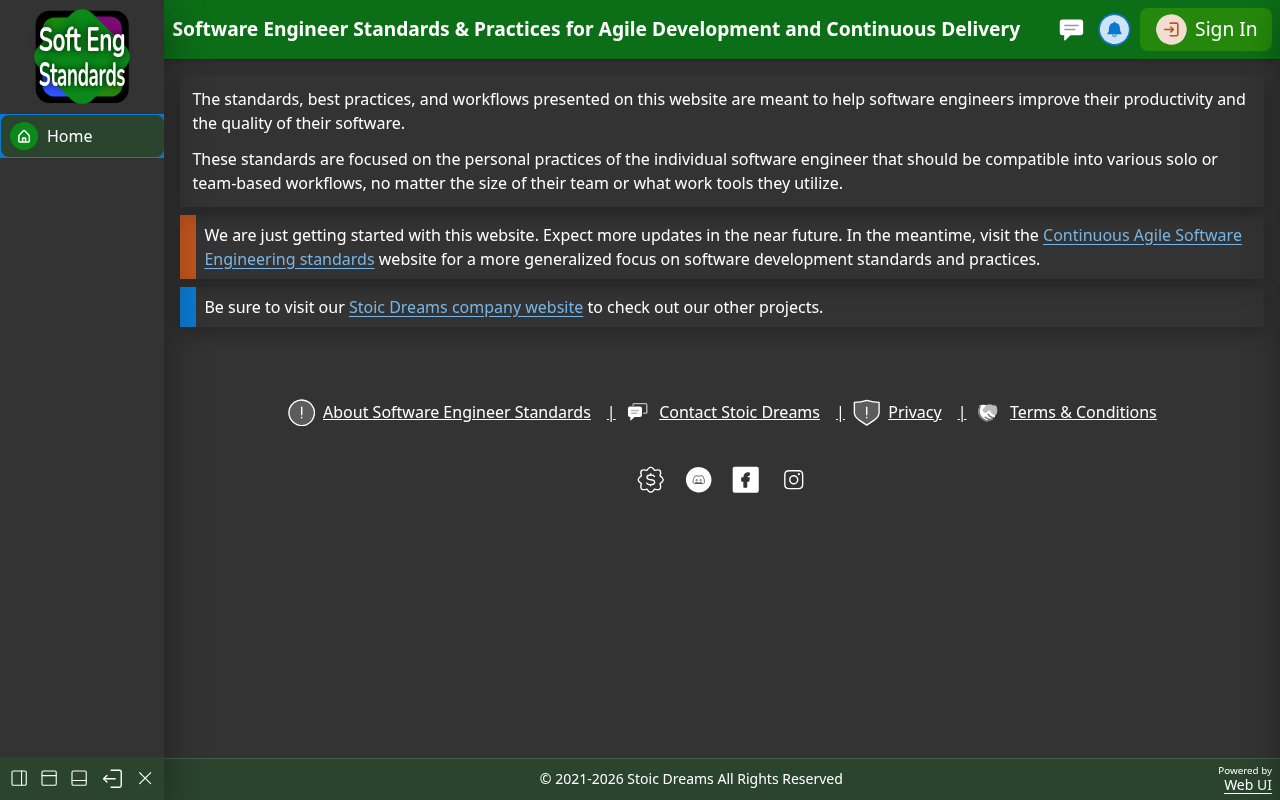
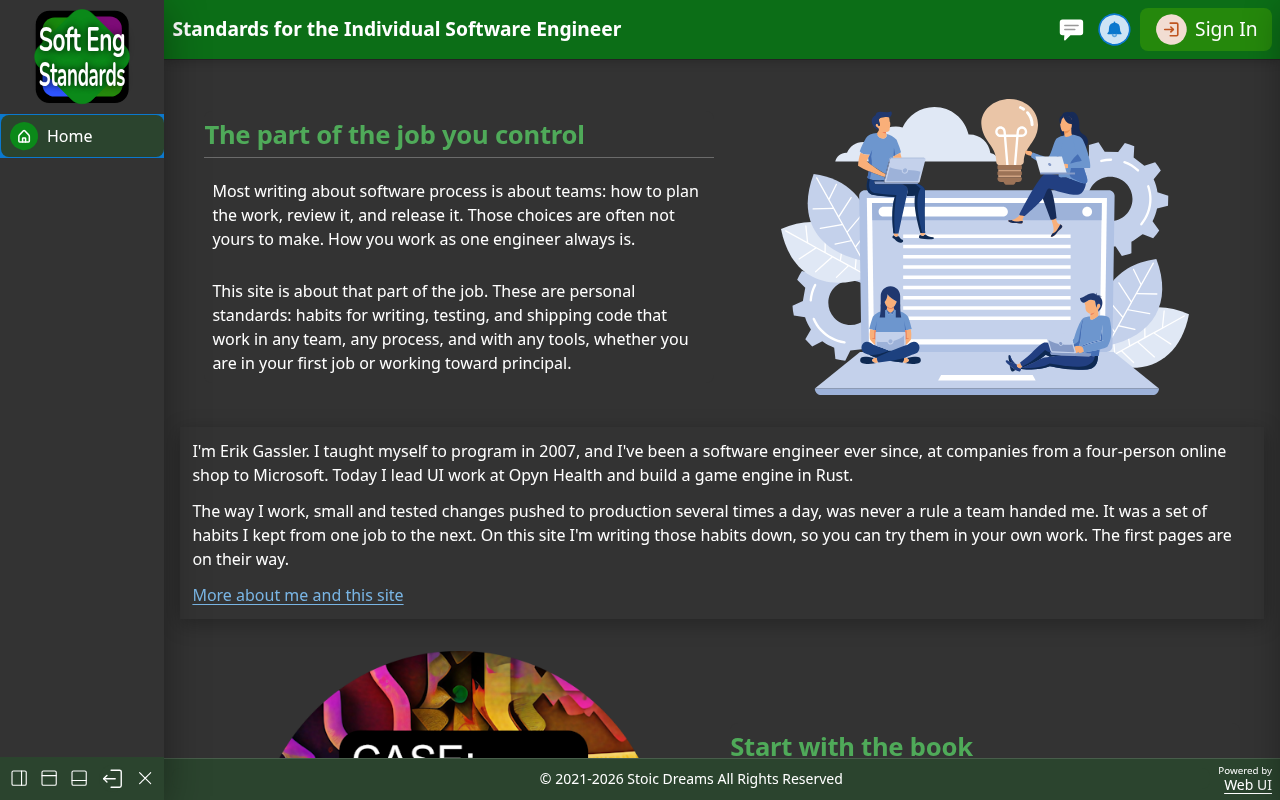
Rewrite Home and About in Erik's voice Feature: The home page explains the site's focus on the individual engineer and leads with the CASE book Feature: The about page introduces Erik, why the site exists, and its sister sites

diff --git a/webapp/pages/index.html b/webapp/pages/index.html
@@ -50,22 +50,23 @@
 	<meta name="theme-color" content="#FF2E46" />
 
 	<meta name="author" content="Erik Gassler">
-	<meta name="description" content="Personal standards, best practices, and workflows that help software engineers raise their productivity and the quality of their software.">
+	<meta name="description" content="Personal habits and standards that help software engineers at every level deliver reliable software faster, whatever their team or process.">
 
 	<meta property="og:image" content="https://www.softwareengineerstandards.com/Logo.svg">
 	<meta property="og:title" content="Software Engineer Standards">
 	<meta property="og:url" content="https://www.softwareengineerstandards.com/">
-	<meta property="og:description" content="Personal standards, best practices, and workflows that help software engineers raise their productivity and the quality of their software.">
+	<meta property="og:description" content="Personal habits and standards that help software engineers at every level deliver reliable software faster, whatever their team or process.">
 
 	<meta name="twitter:title" content="Software Engineer Standards">
 	<meta name="twitter:url" content="https://www.softwareengineerstandards.com/">
 	<meta name="twitter:site" content="@stoicdreamsllc">
-	<meta name="twitter:description" content="Personal standards, best practices, and workflows that help software engineers raise their productivity and the quality of their software.">
+	<meta name="twitter:description" content="Personal habits and standards that help software engineers at every level deliver reliable software faster, whatever their team or process.">
 	<meta name="twitter:image" content="https://www.softwareengineerstandards.com/Logo.svg">
 	<link rel="modulepreload" href="https://cdn.myfi.ws/js/mdparse.min.js" crossorigin="anonymous" />
 	<link rel="preload" as="script" href="https://cdn.myfi.ws/webui/alerts.min.js" crossorigin="anonymous" />
 	<link rel="preload" as="script" href="https://cdn.myfi.ws/webui/app.min.js" crossorigin="anonymous" />
 	<link rel="preload" as="script" href="https://cdn.myfi.ws/webui/app-config.min.js" crossorigin="anonymous" />
+	<link rel="preload" as="script" href="https://cdn.myfi.ws/webui/button.min.js" crossorigin="anonymous" />
 	<link rel="preload" as="script" href="https://cdn.myfi.ws/webui/data.min.js" crossorigin="anonymous" />
 	<link rel="preload" as="script" href="https://cdn.myfi.ws/webui/drawer.min.js" crossorigin="anonymous" />
 	<link rel="preload" as="script" href="https://cdn.myfi.ws/webui/feedback.min.js" crossorigin="anonymous" />
@@ -77,24 +78,30 @@
 	<link rel="preload" as="script" href="https://cdn.myfi.ws/webui/next-page.min.js" crossorigin="anonymous" />
 	<link rel="preload" as="script" href="https://cdn.myfi.ws/webui/page-footer.min.js" crossorigin="anonymous" />
 	<link rel="preload" as="script" href="https://cdn.myfi.ws/webui/page-segment.min.js" crossorigin="anonymous" />
-	<link rel="preload" as="script" href="https://cdn.myfi.ws/webui/quote.min.js" crossorigin="anonymous" />
+	<link rel="preload" as="script" href="https://cdn.myfi.ws/webui/sideimage.min.js" crossorigin="anonymous" />
 	<link rel="preload" as="script" href="https://cdn.myfi.ws/webui/stoic-dreams-logo.min.js" crossorigin="anonymous" />
 	<link rel="preload" as="script" href="https://cdn.myfi.ws/webui/stoic-social-links.min.js" crossorigin="anonymous" />
-	<meta name="webui-prerender" content="c762bdd0f4">
+	<meta name="webui-prerender" content="3c838f7177">
 </head>
 
 <body>
 	<webui-app-config src="appConfig.json"></webui-app-config>
 	<webui-app data-removeclass=".nav|open;.shared|open">
 		<div data-prerendered>
-<p>The standards, best practices, and workflows presented on this website are meant to help software engineers improve their productivity and the quality of their software.</p>
-<p>These standards are focused on the personal practices of the individual software engineer that should be compatible into various solo or team-based workflows, no matter the size of their team or what work tools they utilize.</p>
+<h2>The part of the job you control</h2>
+<p>Most writing about software process is about teams: how to plan the work, review it, and release it. Those choices are often not yours to make. How you work as one engineer always is.</p>
+<p>This site is about that part of the job. These are personal standards: habits for writing, testing, and shipping code that work in any team, any process, and with any tools, whether you are in your first job or working toward principal.</p>
 
 
-<p>We are just getting started with this website. Expect more updates in the near future. In the meantime, visit the <a href="https://www.softwarestandards.dev">Continuous Agile Software Engineering standards</a> website for a more generalized focus on software development standards and practices.</p>
+<p>I'm Erik Gassler. I taught myself to program in 2007, and I've been a software engineer ever since, at companies from a four-person online shop to Microsoft. Today I lead UI work at Opyn Health and build a game engine in Rust.</p>
+<p>The way I work, small and tested changes pushed to production several times a day, was never a rule a team handed me. It was a set of habits I kept from one job to the next. On this site I'm writing those habits down, so you can try them in your own work. The first pages are on their way.</p>
+<p><a href="/about">More about me and this site</a></p>
 
 
-<p>Be sure to visit our <a href="https://www.stoicdreams.com">Stoic Dreams company website</a> to check out our other projects.</p>
+<h2>Start with the book</h2>
+<p>My book, <em>CASE: Continuous Agile Software Engineering</em>, lays out the twelve tenets behind how I work: keep it simple, build in small steps, test continuously, and automate what you repeat.</p>
+<p>Get the book on Amazon</p>
+<p>For how a whole team can work this way, see <a href="https://www.softwarestandards.dev">Continuous Agile Software Engineering</a>, the companion site for the book.</p>
 		</div>
 		<webui-drawer slot="left" class="nav elevation-20" docked="true" data-state="slot|docked" data-moveable data-dockable>
 			<webui-flex justify="center" slot="header">
@@ -108,7 +115,7 @@
 			<button aria-label="open navigation menu" data-toggleclass=".nav|open" class="elevation-10 pa-1 mx-1">
 				<webui-icon icon="hamburger"></webui-icon>
 			</button>
-			<h1 data-subscribe="page-title:innerHTML">Software Engineer Standards &amp; Practices for Agile Development and Continuous Delivery</h1>
+			<h1 data-subscribe="page-title:innerHTML">Standards for the Individual Software Engineer</h1>
 			<h2 data-subscribe="page-subtitle:innerHTML"></h2>
 			<webui-flex grow></webui-flex>
 			<webui-feedback title="Provide us your feedback" data-post="https://api.myfi.ws/feedback/new" data-json-name="message">

diff --git a/webapp/pages/about.html b/webapp/pages/about.html
@@ -50,17 +50,17 @@
 	<meta name="theme-color" content="#FF2E46" />
 
 	<meta name="author" content="Erik Gassler">
-	<meta name="description" content="About Software Engineer Standards, personal standards and practices for software engineers, and Stoic Dreams, the company that builds it. More details are still to come.">
+	<meta name="description" content="Why Erik Gassler, a self-taught software engineer and author of the CASE book, writes personal standards for software engineers.">
 
 	<meta property="og:image" content="https://www.softwareengineerstandards.com/Logo.svg">
 	<meta property="og:title" content="About Software Engineer Standards">
 	<meta property="og:url" content="https://www.softwareengineerstandards.com/about">
-	<meta property="og:description" content="About Software Engineer Standards, personal standards and practices for software engineers, and Stoic Dreams, the company that builds it. More details are still to come.">
+	<meta property="og:description" content="Why Erik Gassler, a self-taught software engineer and author of the CASE book, writes personal standards for software engineers.">
 
 	<meta name="twitter:title" content="About Software Engineer Standards">
 	<meta name="twitter:url" content="https://www.softwareengineerstandards.com/about">
 	<meta name="twitter:site" content="@stoicdreamsllc">
-	<meta name="twitter:description" content="About Software Engineer Standards, personal standards and practices for software engineers, and Stoic Dreams, the company that builds it. More details are still to come.">
+	<meta name="twitter:description" content="Why Erik Gassler, a self-taught software engineer and author of the CASE book, writes personal standards for software engineers.">
 	<meta name="twitter:image" content="https://www.softwareengineerstandards.com/Logo.svg">
 	<link rel="canonical" href="https://www.softwareengineerstandards.com/about" />
 	<link rel="modulepreload" href="https://cdn.myfi.ws/js/mdparse.min.js" crossorigin="anonymous" />
@@ -78,18 +78,33 @@
 	<link rel="preload" as="script" href="https://cdn.myfi.ws/webui/nav.min.js" crossorigin="anonymous" />
 	<link rel="preload" as="script" href="https://cdn.myfi.ws/webui/next-page.min.js" crossorigin="anonymous" />
 	<link rel="preload" as="script" href="https://cdn.myfi.ws/webui/page-footer.min.js" crossorigin="anonymous" />
+	<link rel="preload" as="script" href="https://cdn.myfi.ws/webui/page-segment.min.js" crossorigin="anonymous" />
+	<link rel="preload" as="script" href="https://cdn.myfi.ws/webui/sideimage.min.js" crossorigin="anonymous" />
 	<link rel="preload" as="script" href="https://cdn.myfi.ws/webui/stoic-dreams-logo.min.js" crossorigin="anonymous" />
 	<link rel="preload" as="script" href="https://cdn.myfi.ws/webui/stoic-social-links.min.js" crossorigin="anonymous" />
-	<meta name="webui-prerender" content="1876473462">
+	<meta name="webui-prerender" content="8f0f67e63c">
 </head>
 
 <body>
 	<webui-app-config src="appConfig.json"></webui-app-config>
 	<webui-app data-removeclass=".nav|open;.shared|open">
 		<div data-prerendered>
-<blockquote>
-<p>More information coming soon.</p>
-</blockquote>
+<h2>Who writes this site</h2>
+<p>I'm Erik Gassler, a software engineer for over 19 years. I taught myself to program in 2007, and my first job was as the first in-house engineer at a small online merchandise business. Since then I've written shared libraries and a company-wide reporting portal at SoftRock and General Services Corp, worked on support analytics at Microsoft, and now lead UI work at Opyn Health. On my own time I run Stoic Dreams, and I'm building games and a game engine in Rust at Wyrdloom Studios.</p>
+<p>In 2023 I published <em>CASE: Continuous Agile Software Engineering</em>, a book about the practices I've refined over that time.</p>
+<p><a href="https://www.erikgassler.com/about">My full story and experience</a></p>
+
+<h2>Why this site</h2>
+
+<p>In every role I've had, the biggest difference in what I delivered came from how I worked, not from the team's process or tools. Small changes, tests written as I went, and code pushed to production often are habits I took with me from one job to the next.</p>
+<p>Those habits are what this site is about. Each page will be about something one engineer can choose to do, whatever their level, team, or process, with examples from real work.</p>
+
+<h2>Sister sites</h2>
+
+<ul>
+<li><a href="https://www.softwarestandards.dev">Continuous Agile Software Engineering</a> covers how a team can work this way, with the twelve tenets from the book.</li>
+<li><a href="https://www.erikgassler.com">Erik Gassler</a> is my personal site, with my experience, projects, and how to work with me.</li>
+</ul>
 		</div>
 		<webui-drawer slot="left" class="nav elevation-20" docked="true" data-state="slot|docked" data-moveable data-dockable>
 			<webui-flex justify="center" slot="header">

diff --git a/webapp/root_files/service-worker.min.js b/webapp/root_files/service-worker.min.js
@@ -1,1 +1,1 @@
-self.addEventListener("install",t=>t.waitUntil(onInstall(t))),self.addEventListener("activate",t=>t.waitUntil(onActivate(t))),self.addEventListener("fetch",t=>{const e=new URL(t.request.url);e.protocol==="ipc:"||e.protocol==="tauri:"||e.hostname==="ipc.localhost"||e.hostname==="tauri.localhost"||e.hostname.startsWith("127")||e.hostname==="localhost"||t.request.url.startsWith("http")&&allowCache(t.request)&&t.respondWith(onFetch(t))});const currentVersion="0.1.22",cacheNamePrefix="offline-cache-",cacheName=`${cacheNamePrefix}${currentVersion}`;async function onInstall(t){self.skipWaiting()}async function onActivate(t){const e=await caches.keys();await Promise.all(e.filter(a=>a.startsWith(cacheNamePrefix)&&a!==cacheName).map(a=>caches.delete(a))),await self.clients.claim()}async function onFetch(t){const e=await caches.open(cacheName);let a;try{a=await fetch(applyCacheBusting(t.request))}catch(n){const c=await e.match(t.request);if(c)return c;throw n}return a.ok?(t.waitUntil(e.put(t.request,a.clone()).catch(()=>{})),a):await e.match(t.request)||a}function applyCacheBusting(t){try{const e=new URL(t.url);return e.searchParams.set("_",Date.now()),new Request(e.toString(),t)}catch{return t}}function allowCache(t){return!(t.method!=="GET"||t.mode==="navigate")}
+self.addEventListener("install",t=>t.waitUntil(onInstall(t))),self.addEventListener("activate",t=>t.waitUntil(onActivate(t))),self.addEventListener("fetch",t=>{const e=new URL(t.request.url);e.protocol==="ipc:"||e.protocol==="tauri:"||e.hostname==="ipc.localhost"||e.hostname==="tauri.localhost"||e.hostname.startsWith("127")||e.hostname==="localhost"||t.request.url.startsWith("http")&&allowCache(t.request)&&t.respondWith(onFetch(t))});const currentVersion="0.1.23",cacheNamePrefix="offline-cache-",cacheName=`${cacheNamePrefix}${currentVersion}`;async function onInstall(t){self.skipWaiting()}async function onActivate(t){const e=await caches.keys();await Promise.all(e.filter(a=>a.startsWith(cacheNamePrefix)&&a!==cacheName).map(a=>caches.delete(a))),await self.clients.claim()}async function onFetch(t){const e=await caches.open(cacheName);let a;try{a=await fetch(applyCacheBusting(t.request))}catch(n){const c=await e.match(t.request);if(c)return c;throw n}return a.ok?(t.waitUntil(e.put(t.request,a.clone()).catch(()=>{})),a):await e.match(t.request)||a}function applyCacheBusting(t){try{const e=new URL(t.url);return e.searchParams.set("_",Date.now()),new Request(e.toString(),t)}catch{return t}}function allowCache(t){return!(t.method!=="GET"||t.mode==="navigate")}

diff --git a/webapp/root_files/service-worker.js b/webapp/root_files/service-worker.js
@@ -20,7 +20,7 @@ self.addEventListener('fetch', event => {
     }
     event.respondWith(onFetch(event))
 });
-const currentVersion = '0.1.22';
+const currentVersion = '0.1.23';
 const cacheNamePrefix = 'offline-cache-';
 const cacheName = `${cacheNamePrefix}${currentVersion}`;
 async function onInstall(event) {

diff --git a/webapp/d/root.md b/webapp/d/root.md
@@ -1,21 +1,33 @@
-<webui-data data-page-title="Software Engineer Standards & Practices for Agile Development and Continuous Delivery" data-page-subtitle="" data-page-description="Personal standards, best practices, and workflows that help software engineers raise their productivity and the quality of their software."></webui-data>
+<webui-data data-page-title="Standards for the Individual Software Engineer" data-page-subtitle="" data-page-description="Personal habits and standards that help software engineers at every level deliver reliable software faster, whatever their team or process."></webui-data>
+
+<webui-sideimage src="https://cdn.myfi.ws/v/Vecteezy/young-programmers-code-the-web-site-on-the-laptop-from-the.svg" alt="">
+
+## The part of the job you control
+
+Most writing about software process is about teams: how to plan the work, review it, and release it. Those choices are often not yours to make. How you work as one engineer always is.
+
+This site is about that part of the job. These are personal standards: habits for writing, testing, and shipping code that work in any team, any process, and with any tools, whether you are in your first job or working toward principal.
+
+</webui-sideimage>
 
 <webui-page-segment elevation="10">
 
-The standards, best practices, and workflows presented on this website are meant to help software engineers improve their productivity and the quality of their software.
+I'm Erik Gassler. I taught myself to program in 2007, and I've been a software engineer ever since, at companies from a four-person online shop to Microsoft. Today I lead UI work at Opyn Health and build a game engine in Rust.
 
-These standards are focused on the personal practices of the individual software engineer that should be compatible into various solo or team-based workflows, no matter the size of their team or what work tools they utilize.
+The way I work, small and tested changes pushed to production several times a day, was never a rule a team handed me. It was a set of habits I kept from one job to the next. On this site I'm writing those habits down, so you can try them in your own work. The first pages are on their way.
+
+[More about me and this site](/about)
 
 </webui-page-segment>
 
-<webui-quote theme="warning">
+<webui-sideimage reverse src="https://cdn.myfi.ws/img/case/CASE_Hardcover_Circle.webp" alt="The book CASE: Continuous Agile Software Engineering">
 
-We are just getting started with this website. Expect more updates in the near future. In the meantime, visit the [Continuous Agile Software Engineering standards](https://www.softwarestandards.dev) website for a more generalized focus on software development standards and practices.
+## Start with the book
 
-</webui-quote>
+My book, *CASE: Continuous Agile Software Engineering*, lays out the twelve tenets behind how I work: keep it simple, build in small steps, test continuously, and automate what you repeat.
 
-<webui-quote theme="info">
+<webui-button theme="primary" start-icon="book" href="https://www.amazon.com/dp/B0C47LV1Y8">Get the book on Amazon</webui-button>
 
-Be sure to visit our [Stoic Dreams company website](https://www.stoicdreams.com) to check out our other projects.
+For how a whole team can work this way, see [Continuous Agile Software Engineering](https://www.softwarestandards.dev), the companion site for the book.
 
-</webui-quote>
+</webui-sideimage>

diff --git a/webapp/d/about.md b/webapp/d/about.md
@@ -1,5 +1,34 @@
-<webui-data data-page-title="About {APP_NAME}" data-page-subtitle="" data-page-description="About {APP_NAME}, personal standards and practices for software engineers, and Stoic Dreams, the company that builds it. More details are still to come."></webui-data>
+<webui-data data-page-title="About {APP_NAME}" data-page-subtitle="" data-page-description="Why Erik Gassler, a self-taught software engineer and author of the CASE book, writes personal standards for software engineers."></webui-data>
 
-> More information coming soon.
+<webui-sideimage src="https://cdn.myfi.ws/img/eg/me_256.webp" alt="Photo of Erik Gassler">
+
+## Who writes this site
+
+I'm Erik Gassler, a software engineer for over 19 years. I taught myself to program in 2007, and my first job was as the first in-house engineer at a small online merchandise business. Since then I've written shared libraries and a company-wide reporting portal at SoftRock and General Services Corp, worked on support analytics at Microsoft, and now lead UI work at Opyn Health. On my own time I run Stoic Dreams, and I'm building games and a game engine in Rust at Wyrdloom Studios.
+
+In 2023 I published *CASE: Continuous Agile Software Engineering*, a book about the practices I've refined over that time.
+
+[My full story and experience](https://www.erikgassler.com/about)
+
+</webui-sideimage>
+
+## Why this site
+
+<webui-page-segment elevation="10">
+
+In every role I've had, the biggest difference in what I delivered came from how I worked, not from the team's process or tools. Small changes, tests written as I went, and code pushed to production often are habits I took with me from one job to the next.
+
+Those habits are what this site is about. Each page will be about something one engineer can choose to do, whatever their level, team, or process, with examples from real work.
+
+</webui-page-segment>
+
+## Sister sites
+
+<webui-page-segment elevation="10">
+
+- [Continuous Agile Software Engineering](https://www.softwarestandards.dev) covers how a team can work this way, with the twelve tenets from the book.
+- [Erik Gassler](https://www.erikgassler.com) is my personal site, with my experience, projects, and how to work with me.
+
+</webui-page-segment>
 
 <webui-content cache src="https://cdn.myfi.ws/d/about-stoic-dreams.md"></webui-content>

diff --git a/Docs/README.md b/Docs/README.md
@@ -1,6 +1,6 @@
 # Software Engineer Standards
 
-[Version: 0.1.22](https://github.com/StoicDreams/SoftwareEngineerStandards)
+[Version: 0.1.23](https://github.com/StoicDreams/SoftwareEngineerStandards)
 
 [WebUI](https://github.com/StoicDreams/WebUI)
 
